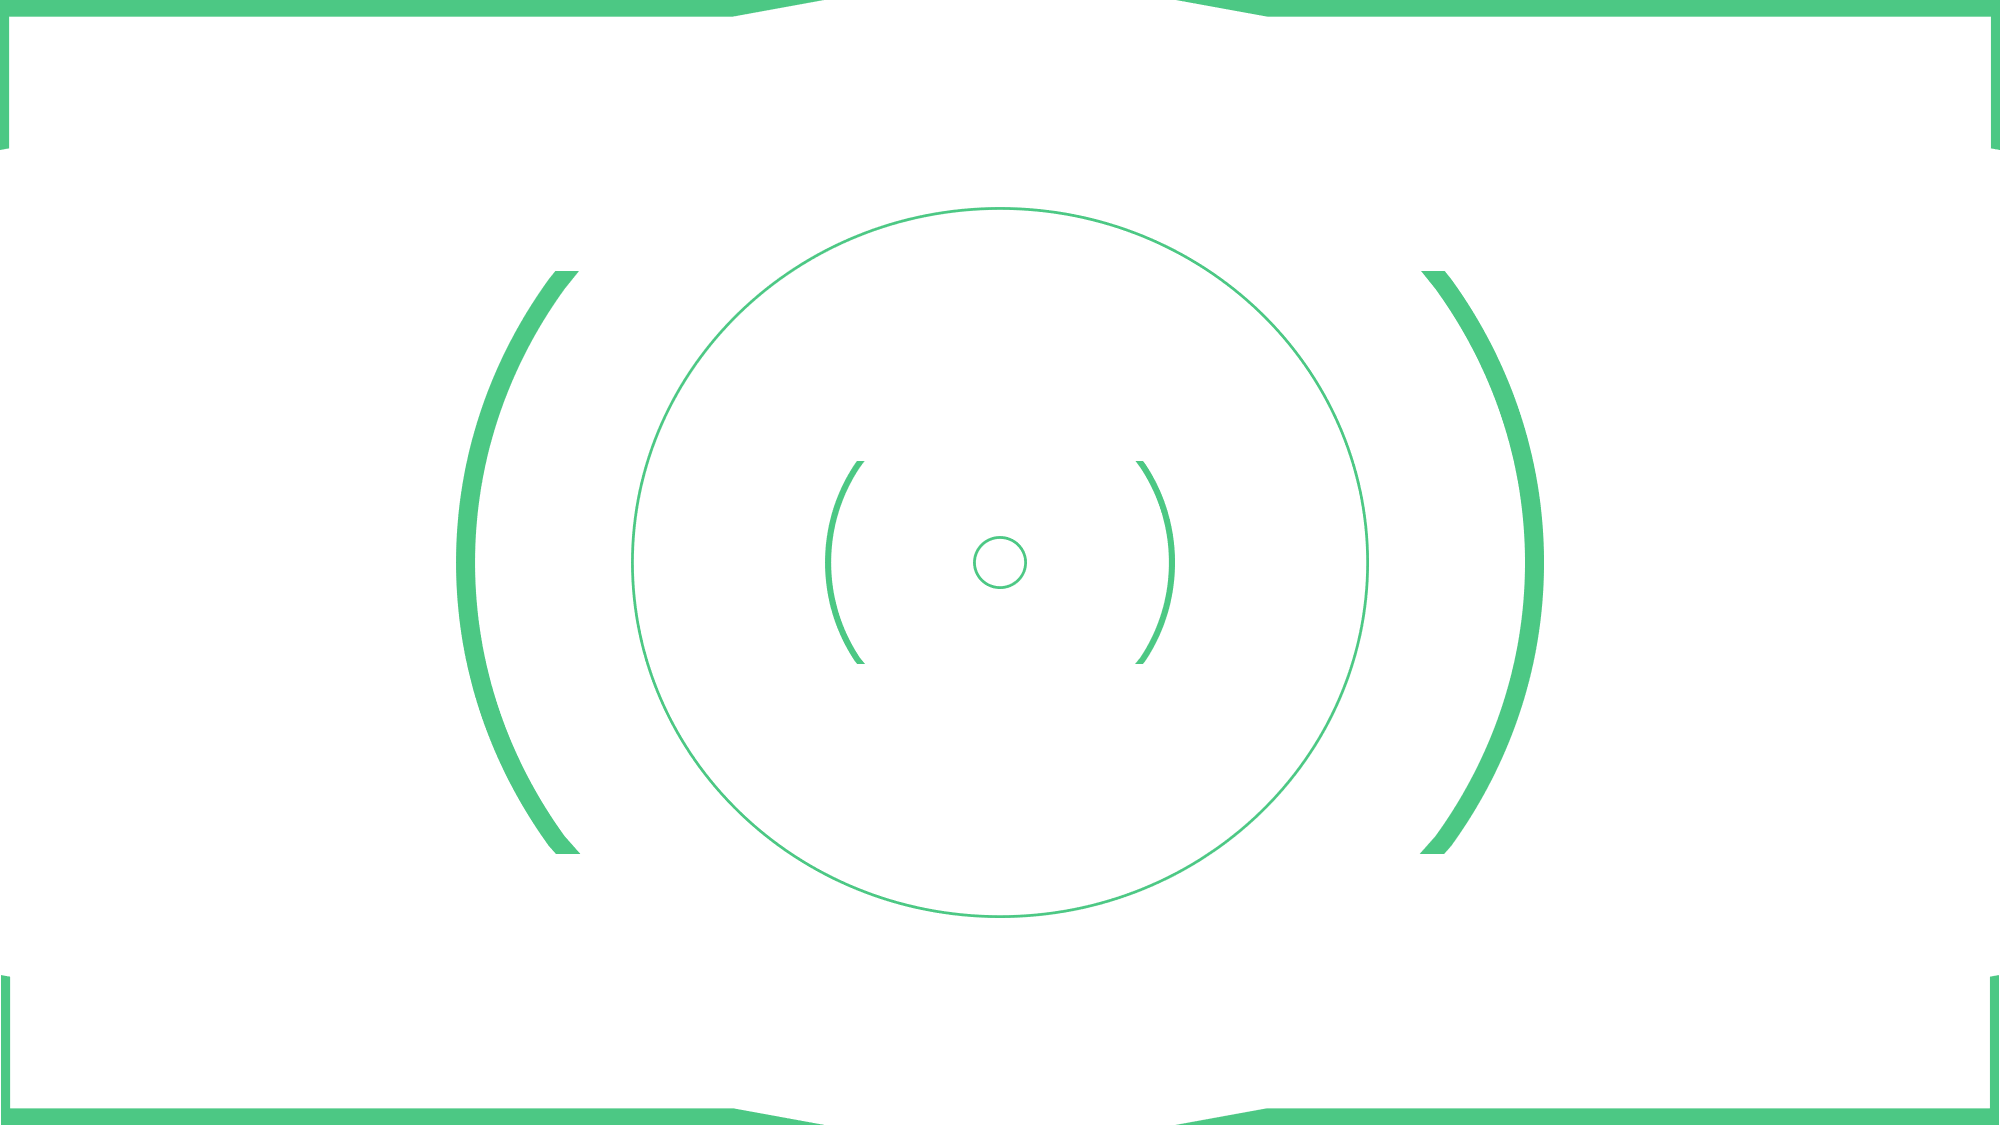
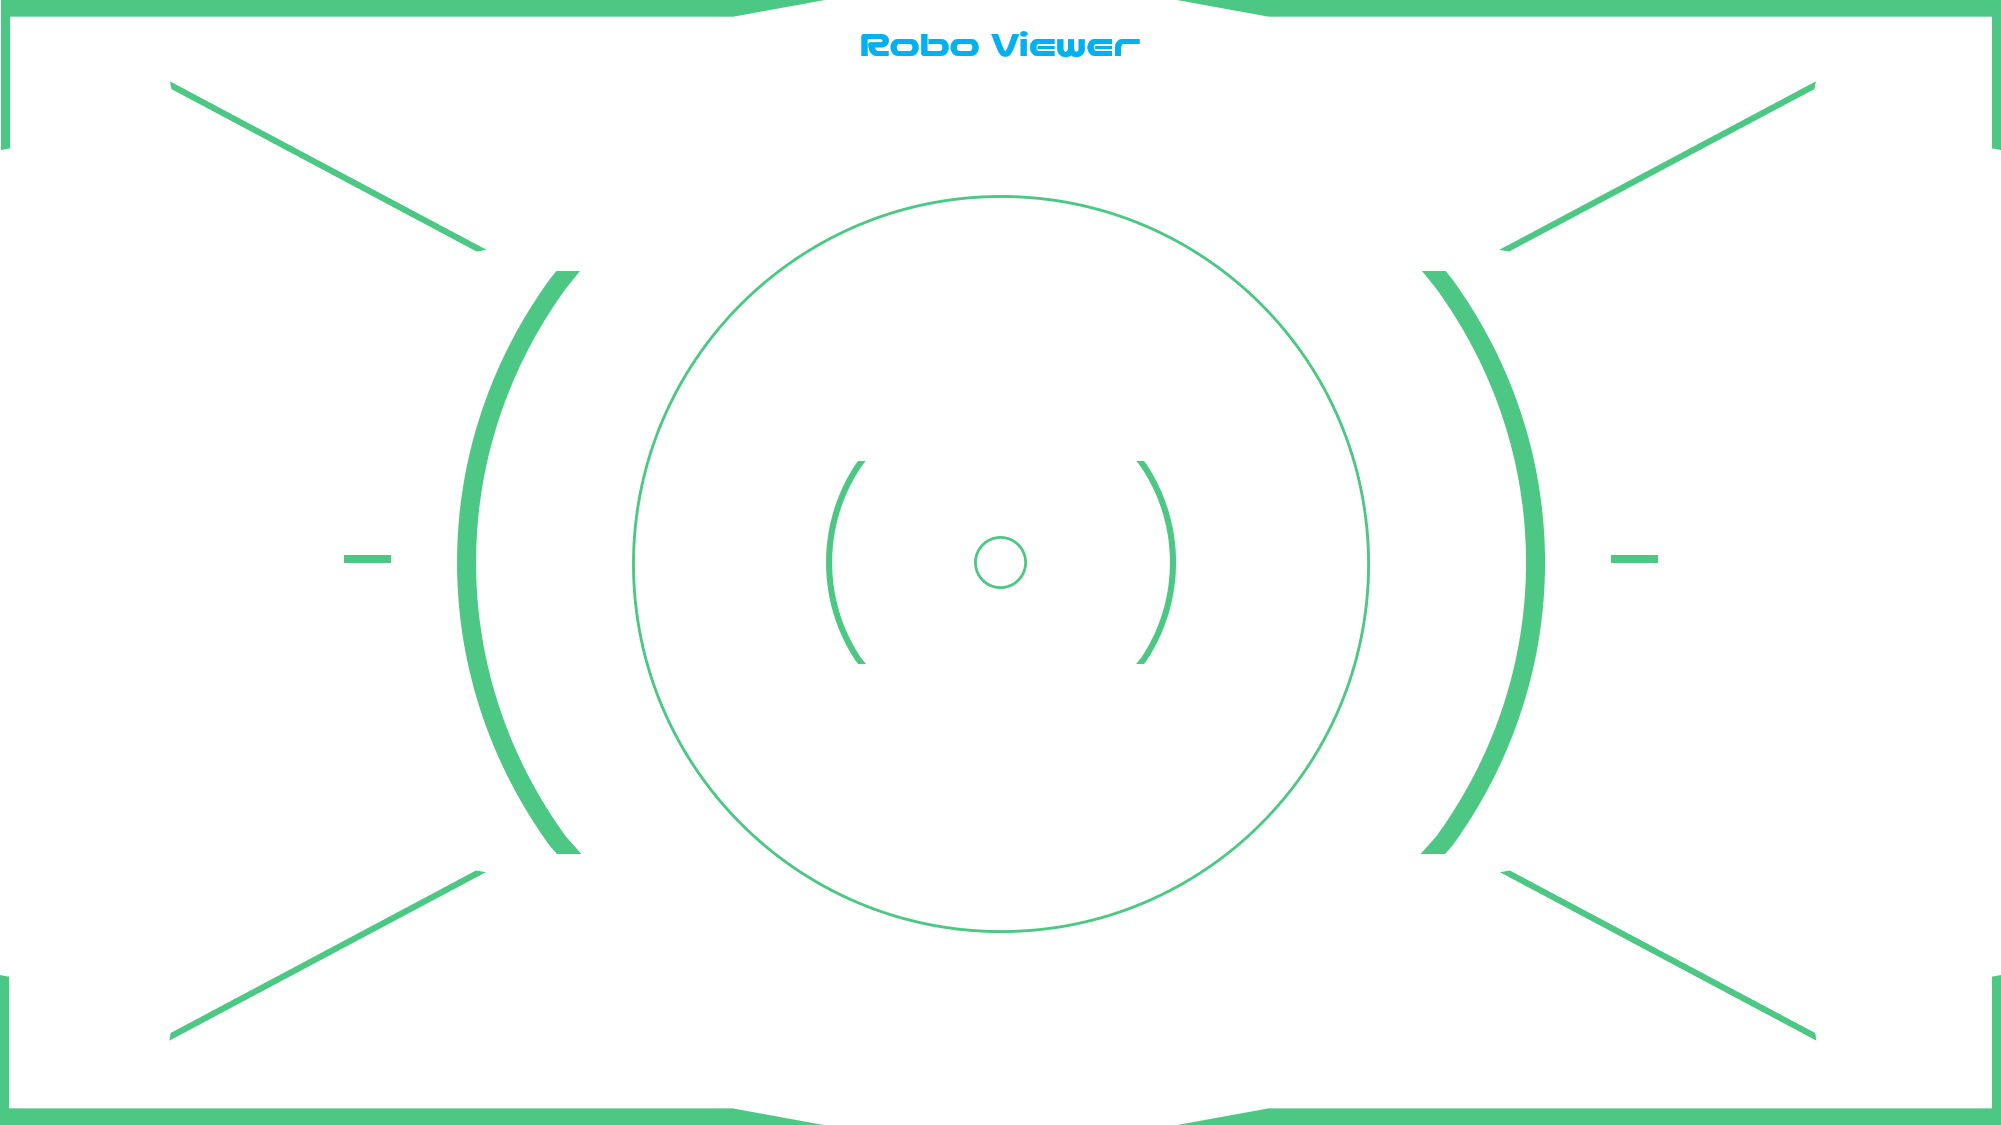
HUDをアップデート

diff --git a/koyofes/nyannyan_log.html b/koyofes/nyannyan_log.html
@@ -22,7 +22,7 @@ p.c2	{ color: #AA9988; text-align: center; font-size: 9px; }
 <body>
 <h2>nyannyan Log</h2>
 <p class="info">アプリケーションを開始します。</p>
-<p class="info">2018/7/15 22:54:06</p>
+<p class="info">2018/7/16 14:51:50</p>
 <p class="info">エンジンを初期化します。</p>
 <p class="info">Siv3D Engine (Debug build) version August 2016 v2 (x86)</p>
 <p class="debug">FileMonitor[0(null)] を作成しました。</p>
@@ -33,17 +33,17 @@ p.c2	{ color: #AA9988; text-align: center; font-size: 9px; }
 <p class="debug">BinaryReader &quot;C:/Users/Vitz-7/Desktop/がっかてん！/koyofes/koyofes/Engine/config.ini&quot; をクローズしました。</p>
 <p class="debug">TextReader &quot;C:/Users/Vitz-7/Desktop/がっかてん！/koyofes/koyofes/Engine/config.ini&quot; をクローズしました。</p>
 <p class="info">SSE3/SSE4.1/SSE4.2 をサポート</p>
-<p class="debug">BinaryReader &quot;/101&quot; をロードしました。サイズ: 50.3KiB</p>
 <p class="info">AVX2 をサポート</p>
+<p class="debug">BinaryReader &quot;/101&quot; をロードしました。サイズ: 50.3KiB</p>
 <p class="debug">GDI+ を初期化しました。</p>
 <p class="debug">Media Foundation を初期化しました。</p>
+<p class="debug">BinaryReader &quot;/101&quot; をクローズしました。</p>
 <p class="info">MP3 デコーダーは libmpg123 を使用します。</p>
 <p class="debug">MP3 デコーダーを初期化しました。</p>
 <p class="info">ウィンドウクラスを登録しました。</p>
-<p class="debug">BinaryReader &quot;/101&quot; をクローズしました。</p>
+<p class="debug">スプラッシュウィンドウを作成しました。</p>
 <p class="info">Wintab32.dll が無いので、ペンタブは利用できません。</p>
 <p class="info">ゲームパッドを使用できます。最大接続数: 16</p>
-<p class="debug">スプラッシュウィンドウを作成しました。</p>
 <p class="debug">xinput1_4.dll をロードしました。</p>
 <p class="info">XInput コントローラーを使用できます。</p>
 <p class="info">マルチタッチには対応していません。</p>
@@ -392,30 +392,34 @@ p.c2	{ color: #AA9988; text-align: center; font-size: 9px; }
 <p class="debug">Font[2] を作成しました。</p>
 <p class="debug">BinaryReader &quot;C:/Users/Vitz-7/Desktop/がっかてん！/koyofes/koyofes/Image/logo.png&quot; をオープンしました。サイズ: 275KiB</p>
 <p class="debug">BinaryReader &quot;C:/Users/Vitz-7/Desktop/がっかてん！/koyofes/koyofes/Image/logo.png&quot; をクローズしました。</p>
-<p class="debug">BinaryReader &quot;C:/Users/Vitz-7/Desktop/がっかてん！/koyofes/koyofes/Image/UI1.png&quot; をオープンしました。サイズ: 28.6KiB</p>
+<p class="debug">BinaryReader &quot;C:/Users/Vitz-7/Desktop/がっかてん！/koyofes/koyofes/Image/UI1.png&quot; をオープンしました。サイズ: 36.7KiB</p>
 <p class="debug">BinaryReader &quot;C:/Users/Vitz-7/Desktop/がっかてん！/koyofes/koyofes/Image/UI1.png&quot; をクローズしました。</p>
-<p class="debug">BinaryReader &quot;C:/Users/Vitz-7/Desktop/がっかてん！/koyofes/koyofes/Image/UI2.png&quot; をオープンしました。サイズ: 2.42KiB</p>
+<p class="debug">BinaryReader &quot;C:/Users/Vitz-7/Desktop/がっかてん！/koyofes/koyofes/Image/UI2.png&quot; をオープンしました。サイズ: 8.44KiB</p>
 <p class="debug">BinaryReader &quot;C:/Users/Vitz-7/Desktop/がっかてん！/koyofes/koyofes/Image/UI2.png&quot; をクローズしました。</p>
-<p class="debug">BinaryReader &quot;C:/Users/Vitz-7/Desktop/がっかてん！/koyofes/koyofes/Image/UI3.png&quot; をオープンしました。サイズ: 554B</p>
+<p class="debug">BinaryReader &quot;C:/Users/Vitz-7/Desktop/がっかてん！/koyofes/koyofes/Image/UI3.png&quot; をオープンしました。サイズ: 572B</p>
 <p class="debug">BinaryReader &quot;C:/Users/Vitz-7/Desktop/がっかてん！/koyofes/koyofes/Image/UI3.png&quot; をクローズしました。</p>
-<p class="debug">BinaryReader &quot;C:/Users/Vitz-7/Desktop/がっかてん！/koyofes/koyofes/Image/UI4.png&quot; をオープンしました。サイズ: 319B</p>
+<p class="debug">BinaryReader &quot;C:/Users/Vitz-7/Desktop/がっかてん！/koyofes/koyofes/Image/UI4.png&quot; をオープンしました。サイズ: 2.38KiB</p>
 <p class="debug">BinaryReader &quot;C:/Users/Vitz-7/Desktop/がっかてん！/koyofes/koyofes/Image/UI4.png&quot; をクローズしました。</p>
+<p class="debug">BinaryReader &quot;C:/Users/Vitz-7/Desktop/がっかてん！/koyofes/koyofes/Image/UI5.png&quot; をオープンしました。サイズ: 12.4KiB</p>
+<p class="debug">BinaryReader &quot;C:/Users/Vitz-7/Desktop/がっかてん！/koyofes/koyofes/Image/UI5.png&quot; をクローズしました。</p>
 <p class="debug">Texture[13] を作成しました。</p>
 <p class="debug">Texture[14] を作成しました。</p>
 <p class="debug">Texture[15] を作成しました。</p>
 <p class="debug">Texture[16] を作成しました。</p>
 <p class="debug">Texture[17] を作成しました。</p>
+<p class="debug">Texture[18] を作成しました。</p>
 <p class="info">Web カメラを初期化しました。解像度: 640x480</p>
 <p class="debug">スプラッシュウィンドウを終了しました。</p>
 <p class="debug">Webcam の映像を調整しています...</p>
 <p class="debug">Webcam の映像の調整が完了しました。</p>
 <p class="debug">(dynamic texture) (サイズ 640x480 Format: 1c)</p>
-<p class="debug">Texture[18] を作成しました。</p>
+<p class="debug">Texture[19] を作成しました。</p>
 <p class="debug">解像度を 1920x1080 に変更しました。</p>
 <p class="info">System::Update() : ExitEvent EscapeKey</p>
-<p class="debug">Texture[18] を破棄しました。</p>
+<p class="debug">Texture[19] を破棄しました。</p>
 <p class="debug">Web カメラを停止します。</p>
 <p class="debug">Web カメラのスレッドを終了しました。</p>
+<p class="debug">Texture[18] を破棄しました。</p>
 <p class="debug">Texture[17] を破棄しました。</p>
 <p class="debug">Texture[16] を破棄しました。</p>
 <p class="debug">Texture[15] を破棄しました。</p>
@@ -513,7 +517,7 @@ p.c2	{ color: #AA9988; text-align: center; font-size: 9px; }
 <p class="debug">FileMonitor[0(null)] を破棄しました。</p>
 <p class="debug">FileMonitor マネージャーを終了しました。</p>
 <p class="info">エンジンを終了しました。</p>
-<p class="info">2018/7/15 22:54:17</p>
+<p class="info">2018/7/16 14:59:04</p>
 
 <br>
 <p class="c0">Siv3D Engine August 2016 v2 (x86)</p>

diff --git a/koyofes/Main.cpp b/koyofes/Main.cpp
@@ -20,14 +20,17 @@ void Main() {
 	const Image ui2(L"Image/UI2.png");
 	const Image ui3(L"Image/UI3.png");
 	const Image ui4(L"Image/UI4.png");
+	const Image ui5(L"Image/UI5.png");
 
 	const Texture logo_texture(logo);
 	const Texture ui1_texture(ui1);
 	const Texture ui2_texture(ui2);
 	const Texture ui3_texture(ui3);
 	const Texture ui4_texture(ui4);
+	const Texture ui5_texture(ui5);
 
-	double ui_rad[2] = {0};
+	double ui_rad[3] = {0};
+	auto ui_rad1sign = 1;
 	Webcam webcam;
 	bool cam_flag = webcam.open(1, Size(640, 480)) && webcam.start();
 	DynamicTexture cam_texture;
@@ -90,15 +93,18 @@ void Main() {
 				Rect(0, 0, Window::Width(), Window::Height()).draw(Color(0, 0, 0));
 			}
 
-			// UI描画
+			// HUD描画
 			{
 				ui1_texture.resize(Window::Width(), Window::Height()).draw();
-				// ui2_texture.draw((Window::Width() - ui2.width) / 2, (Window::Height() - ui2.height) / 2);
-				ui2_texture.rotate(-ui_rad[0]).draw((Window::Width() - ui2.width) / 2, (Window::Height() - ui2.height) / 2);
-				ui3_texture.rotate(ui_rad[1]).draw((Window::Width() - ui3.width) / 2, (Window::Height() - ui3.height) / 2);
-				ui4_texture.rotate(-ui_rad[1]).draw((Window::Width() - ui4.width) / 2, (Window::Height() - ui4.height) / 2);
+				ui2_texture.resize(Window::Width() * ui2.width / ui1_texture.width, Window::Height() * ui2.height / ui1_texture.height).rotate(-ui_rad[0]).draw((Window::Width() - Window::Width() * ui2.width / ui1_texture.width) / 2, (Window::Height() - Window::Height() * ui2.height / ui1_texture.height) / 2);
+				ui3_texture.resize(Window::Width() * ui3.width / ui1_texture.width, Window::Height() * ui3.height / ui1_texture.height).rotate(ui_rad[0]).draw((Window::Width() - Window::Width() * ui3.width / ui1_texture.width) / 2, (Window::Height() - Window::Height() * ui3.height / ui1_texture.height) / 2);
+				ui4_texture.resize(Window::Width() * ui4.width / ui1_texture.width, Window::Height() * ui4.height / ui1_texture.height).rotate(ui_rad[1]).draw((Window::Width() - Window::Width() * ui4.width / ui1_texture.width) / 2, (Window::Height() - Window::Height() * ui4.height / ui1_texture.height) / 2);
+				ui4_texture.resize(Window::Width() * ui4.width / ui1_texture.width, Window::Height() * ui4.height / ui1_texture.height).rotate(-ui_rad[1]).draw((Window::Width() - Window::Width() * ui4.width / ui1_texture.width) / 2, (Window::Height() - Window::Height() * ui4.height / ui1_texture.height) / 2);
+				ui5_texture.resize(Window::Width() * ui5.width / ui1_texture.width, Window::Height() * ui5.height / ui1_texture.height).rotate(ui_rad[2]).draw((Window::Width() - Window::Width() * ui5.width / ui1_texture.width) / 2, (Window::Height() - Window::Height() * ui5.height / ui1_texture.height) / 2);
 				ui_rad[0] = ui_rad[0] < TwoPi ? ui_rad[0] + Radians(0.5) : 0;
-				ui_rad[1] = ui_rad[1] < TwoPi ? ui_rad[1] + Radians(0.25) : 0;
+				ui_rad[1] = ui_rad[1] < TwoPi ? ui_rad[1] + ui_rad1sign * Radians(0.25) : 0;
+				ui_rad[2] = ui_rad[2] < TwoPi ? ui_rad[2] + Radians(0.1) : 0;
+				// if ((ui_rad1sign == 1 && ui_rad[1] > HalfPi + QuarterPi / 4.0) || (ui_rad1sign == -1 && ui_rad[1] < HalfPi - QuarterPi / 4.0)) ui_rad1sign *= -1;
 			}
 		}
 	}
